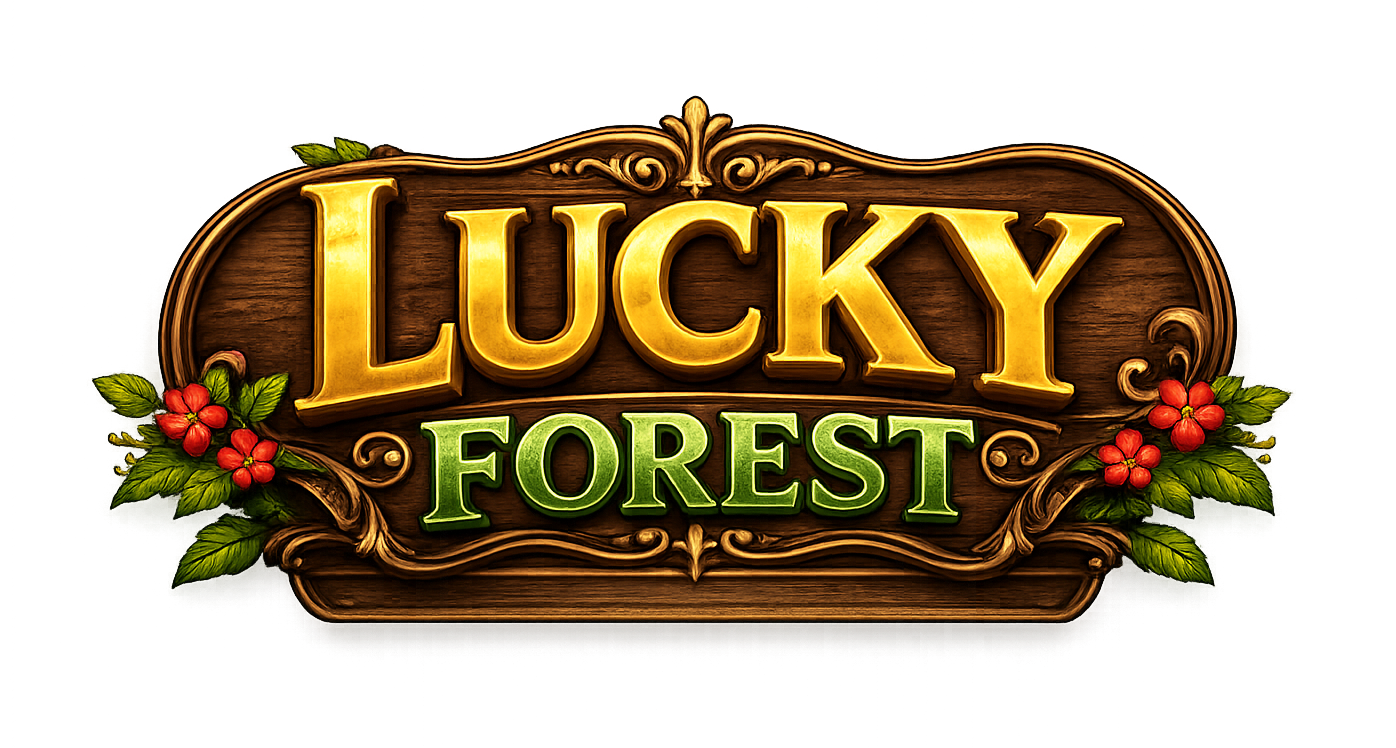
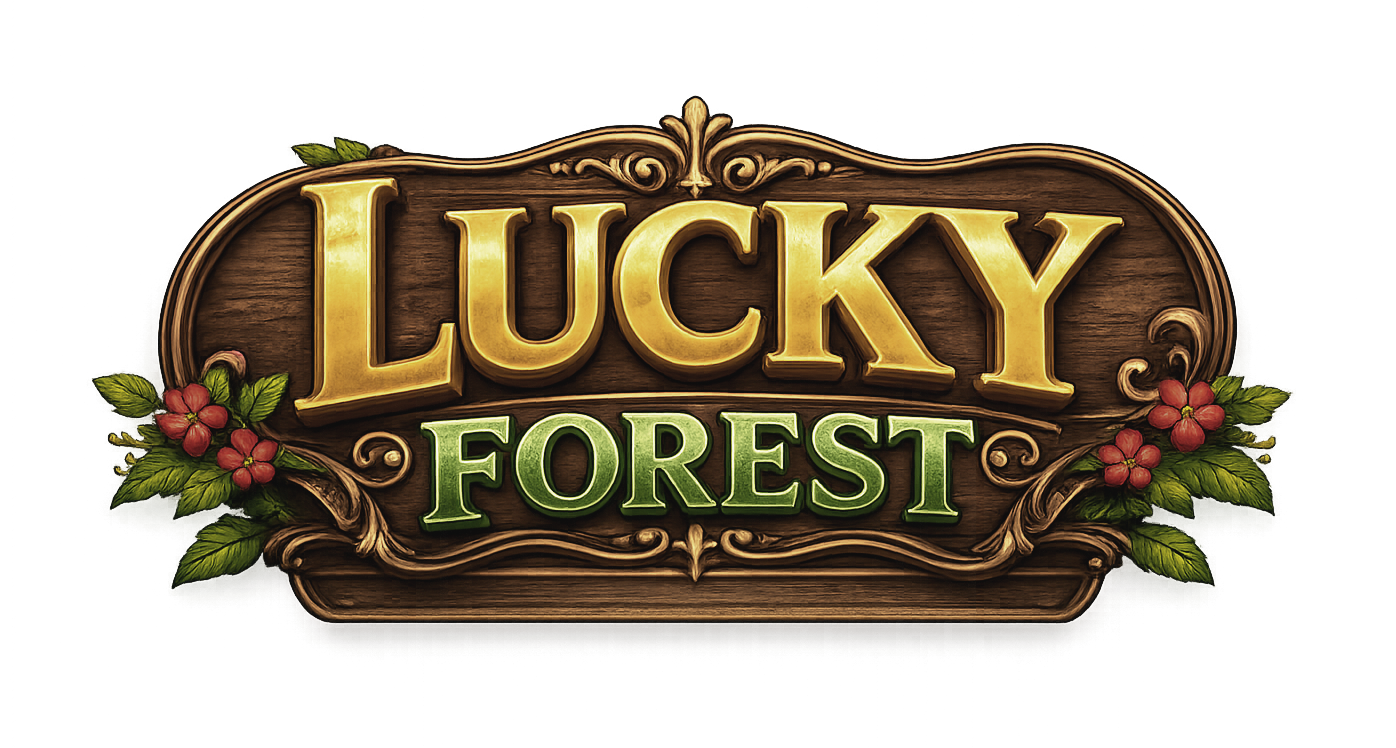
minor visual improvements

Changed region(s): [[0.0616, 0.123, 0.9241, 0.8302]]

diff --git a/src/version.ts b/src/version.ts
@@ -4,7 +4,10 @@ import { BUILD_INFO } from './build-info.generated';
 
 export { BUILD_INFO };
 
-export const formatBuildLabel = (): string => {
+const formatBuildDate = (): string => BUILD_INFO.builtAt.slice(0, 10);
+
+/** Full label for console and BUILD.txt — sha, buildId, dirty mark */
+export const formatBuildLabelFull = (): string => {
 	const dirtyMark = BUILD_INFO.gitDirty ? '*' : '';
 
 	if (BUILD_INFO.mode === 'development') {
@@ -12,11 +15,23 @@ export const formatBuildLabel = (): string => {
 	}
 
 	const head = `v${BUILD_INFO.version} · ${BUILD_INFO.channel} · ${BUILD_INFO.gitSha}${dirtyMark}`;
-	return `${head}\n${BUILD_INFO.buildId}`;
+	return `${head} · ${BUILD_INFO.buildId}`;
+};
+
+/** Short label for HUD — version, channel, build date (no time) */
+export const formatBuildLabel = (): string => {
+	const dirtyMark = BUILD_INFO.gitDirty ? '*' : '';
+	const date = formatBuildDate();
+
+	if (BUILD_INFO.mode === 'development') {
+		return `v${BUILD_INFO.version} dev ${date}${dirtyMark}`;
+	}
+
+	return `v${BUILD_INFO.version} ${BUILD_INFO.channel} ${date}`;
 };
 
 export const logBuildInfo = (): void => {
-	console.info(`[Slot Game] ${formatBuildLabel()} (built ${BUILD_INFO.builtAt})`);
+	console.info(`[Slot Game] ${formatBuildLabelFull()} (built ${BUILD_INFO.builtAt})`);
 };
 
 const VERSION_TEXT_FILL = '#D9B978';

diff --git a/src/index.ts b/src/index.ts
@@ -26,8 +26,6 @@ PixiPlugin.registerPIXI(PIXI);
 const MOCK_TOKEN = 'mock';
 const DEFAULT_MIN_BET = 1;
 const DEFAULT_MAX_BET = 10;
-const COIN_WAVE_DELAY_MS = 100;
-const COIN_WAVE_TAIL_DELAY_MS = 100;
 
 const app = new Application();
 const walletLedger = new MockWalletLedger();
@@ -37,7 +35,7 @@ const gameHUD = new GameHUD();
 const balancePresenter = new BalancePresenter(gameHUD);
 
 const gameLayer = new Container();
-const hudLayer = new Container(); // !! top level UI to be implemented
+const hudLayer = new Container();
 const uiOverlay = new Container();
 const fadeRect = new Graphics();
 uiOverlay.addChild(fadeRect);
@@ -127,7 +125,6 @@ async function loadGameScene(sceneId: string): Promise<void> {
 		gameSceneAssets = '';
 	}
 
-	// ?? the only way?
 	const serverInitPromise = entry.gameId
 		? connectToGameServer(entry.gameId)
 		: Promise.resolve({ connected: false, response: null as IInitResponse | null });
@@ -147,7 +144,7 @@ async function loadGameScene(sceneId: string): Promise<void> {
 
 	const gameScene = createGameScene(entry, serverInit.response);
 
-	await changeScene(gameScene);
+	await changeScene(gameScene, true);
 
 	adjustSceneUi(entry, isServerConnected); // !! to be implemented
 }
@@ -214,7 +211,6 @@ function connectCheat(scene: Scene, serverConnected: boolean): void {
 
 	if (serverConnected) {
 		scene.on('cheatACoin', onCheatTriggered);
-		return;
 	}
 }
 
@@ -223,15 +219,17 @@ function adjustSceneUi(entry: GameSceneCatalogEntry, serverConnected: boolean): 
 	console.info(`adjustSceneUi: "${entry.title}" loaded, server=${serverConnected}`);
 }
 
-async function changeScene(newScene: Scene): Promise<void> {
+async function changeScene(newScene: Scene, showHud: boolean = false): Promise<void> {
 	if (currentScene) {
 		if (currentScene instanceof MainGameScene) {
 			currentScene.off('leverTriggered');
+			currentScene.off('cheatACoin');
 		}
 
 		const promiseFadeIsOn = fadeEffect(500, true);
 		const promiseSceneInit = newScene.init();
 		await Promise.all([promiseFadeIsOn, promiseSceneInit]);
+		hudLayer.visible = showHud;
 
 		gameLayer.removeChild(currentScene);
 		gameLayer.addChild(newScene);

diff --git a/src/managers/scenes-catalog.ts b/src/managers/scenes-catalog.ts
@@ -22,12 +22,9 @@ const createForestScene = (args?: GameSceneCreateArgs): Scene => {
 	if (hasKeys) {
 		return new MainGameScene(symbolKeys);
 	}
-	/*if (hasMatrix) {
-		// should no be like that
-		let keys = symbolMatrix.at(0);
-		const sortedKeys = [...keys].sort();
-		return new MainGameScene(sortedKeys, symbolMatrix);
-	}*/
+	if (hasMatrix) {
+		// Cannot extract symbol keys from the matrix to sequence the textures correctly.
+	}
 	return new MainGameScene();
 };
 

diff --git a/src/build-info.generated.ts b/src/build-info.generated.ts
@@ -14,10 +14,10 @@ export type BuildInfo = {
 
 export const BUILD_INFO: BuildInfo = {
 	"version": "1.1.0",
-	"gitSha": "0c9e7c7",
+	"gitSha": "ff7da32",
 	"gitDirty": true,
 	"mode": "development",
 	"channel": "local",
-	"buildId": "20260710-002605",
-	"builtAt": "2026-07-10T00:26:05.556Z"
+	"buildId": "20260710-065530",
+	"builtAt": "2026-07-10T06:55:30.047Z"
 };

diff --git a/src/game/server/mock-persistence.ts b/src/game/server/mock-persistence.ts
@@ -1,5 +1,5 @@
 import { z } from 'zod';
-import { IPlayer, IWallet, PlayerScheme, WalletScheme } from '../slot-game-interface';
+import { IWallet, PlayerScheme, WalletScheme } from '../slot-game-interface';
 import { accountConfig } from './account-config';
 import { ReelMatrix } from './game-definition';
 

diff --git a/src/scenes/main-game-scene.ts b/src/scenes/main-game-scene.ts
@@ -1,5 +1,4 @@
 import { Sprite, Texture, Container, Assets, Spritesheet, AnimatedSprite, Graphics, ParticleContainer } from 'pixi.js';
-import { gsap } from 'gsap';
 import { Scene } from './scene';
 import { AnotherFly } from '../components/particle-fly';
 import { Coin, CoinThrowOptions } from '../components/coin';
@@ -7,7 +6,6 @@ import { Reel, ReelState } from '../components/reel';
 import { Spine } from '@esotericsoftware/spine-pixi-v8';
 import { SoundManager } from '../managers/sound-manager';
 import { SpineDisplay } from '../components/spine-display';
-import { number } from 'zod';
 
 export class MainGameScene extends Scene {
 	private bgSprite!: Sprite;

diff --git a/src/game/slot-machine-client.ts b/src/game/slot-machine-client.ts
@@ -13,7 +13,6 @@ export class SlotMachineClient {
 
 	public async fetchInit(query: IInitQuery): Promise<IInitResponse> {
 		const response = await this.server.handleInit(query);
-		//console.log(response); // !! debug
 		return InitResponseScheme.parse(response);
 	}
 

diff --git a/README.md b/README.md
@@ -1,15 +1,18 @@
 # Another HTML5 Slot Machine Game Demo
 
-A browser-based slot machine demo built with **Pixi.js v8**, **TypeScript**, **GSAP**, and **Spine** skeletal animations. The project showcases reel spinning mechanics, win/lose feedback, ambient audio, and a scene-based loading flow.
+A browser-based slot machine demo built with **Pixi.js v8**, **TypeScript**, **GSAP**, and **Spine** skeletal animations. The project showcases reel spinning mechanics, server-driven game state, wallet persistence, HUD controls, win/lose feedback, ambient audio, and a scene-based loading flow.
 
 ## Features
 
 - **Three independent reels** with acceleration, deceleration, and a micro-bounce stop animation
-- **Mock server spin results** — symbol outcomes and win detection are simulated asynchronously (no client-side cheat logic on the final design path)
+- **Mock game server** — init/spin API with Zod-validated contracts; symbol outcomes, paytable evaluation, and wallet settlement run server-side (no client-side cheat logic on the final design path)
+- **Wallet persistence** — balance stored in `localStorage` with `lastTransactionIndex` for stale snapshot rejection
+- **HUD** — balance display with animated debit/credit, bet controls (+/−), sound/info buttons, build version label
+- **Scene catalog** — entries map scene id → asset bundle → optional `gameId`; factory passes server `symbolIds` and reel matrix into the scene constructor
 - **Spine animations** — owl character reactions and coin burst particles on win
 - **Layered audio** — separate music, ambience, and SFX buses via `@pixi/sound`; per-reel spin sounds with staggered stop clicks
 - **Scene flow** — preload splash → loading screen with progress bar → main game, with GSAP fade transitions
-- **UI button feedback** — `UIButton` with pluggable `MouseActionDecoration` (sound toggle uses `HighlightDecoration`: hover highlight, press tint, elastic tap)
+- **UI button feedback** — `UIButton` with pluggable decorations (`HighlightDecoration`: hover highlight, press tint, elastic tap)
 - **Input** — pull the lever (click) or press **Space** / **Enter**
 
 ## Tech Stack
@@ -20,6 +23,7 @@ A browser-based slot machine demo built with **Pixi.js v8**, **TypeScript**, **G
 | Language | TypeScript (strict) |
 | Animation | Spine (`@esotericsoftware/spine-pixi-v8`), [GSAP](https://gsap.com/) v3 + PixiPlugin |
 | Audio | `@pixi/sound` |
+| Validation | [Zod](https://zod.dev/) (API contracts) |
 | Bundler | Webpack 5 |
 
 ## Requirements
@@ -65,35 +69,49 @@ docker run --rm -p 8080:80 slot-game-demo
 
 ```
 src/
-├── index.ts                      # App bootstrap, GSAP/PixiPlugin setup, scene switching
-├── assets/                       # Images, sounds, Spine data, asset manifest
+├── index.ts                      # App bootstrap, scene loading, spin flow orchestration
+├── version.ts                      # Build label formatting for HUD and console
+├── assets/                         # Images, sounds, Spine data, asset manifest
 ├── components/
-│   ├── ui-button.ts              # Interactive UI button (Decoratable)
-│   ├── highlight-decoration.ts   # Hover / press / tap GSAP effects
-│   ├── mouse-action-decoration.ts
-│   ├── decoratable.ts
-│   ├── reel.ts, coin.ts, spine-display.ts, particle-fly.ts
+│   ├── reel.ts, coin.ts            # Reel physics and coin particles
+│   ├── ui-button.ts                # Interactive UI button (Decoratable)
+│   ├── highlight-decoration.ts     # Hover / press / tap GSAP effects
+│   └── spine-display.ts            # Spine animation wrapper
 ├── game/
-│   └── slot-machine-model.ts     # Mock spin API
+│   ├── slot-game-interface.ts      # IInitResponse, ISpinResponse, Zod schemas
+│   ├── slot-machine-client.ts      # Client wrapper around mock server
+│   ├── pay-client.ts               # External wallet credit (mock pay service)
+│   └── server/
+│       ├── mock-slot-server.ts     # Init / spin handlers
+│       ├── mock-persistence.ts     # Wallet ledger + session store (localStorage)
+│       ├── game-definition.ts      # GameDefinition interface
+│       └── games/                  # Per-game rules (slot_reels_3x3, …)
+├── hud/
+│   ├── game-hud.ts                 # Balance, bet, sound, version panel
+│   └── balance-presenter.ts        # Wallet display logic (debit / reveal / credit)
 ├── managers/
-│   └── sound-manager.ts          # Audio buses and playback
-└── scenes/                       # Preload, Loading, MainGame scenes
+│   ├── scenes-catalog.ts           # Scene entries and factories
+│   └── sound-manager.ts            # Audio buses and playback
+└── scenes/                         # Preload, Loading, MainGame scenes
 ```
 
 ## How to Play
 
 1. Wait for assets to load.
-2. Click the lever or press **Space** / **Enter** to spin.
-3. Reels stop one by one; a win triggers a coin spray and owl celebration.
-4. Use the sound button (top-left) to toggle audio.
+2. Adjust bet with **+** / **−** (within server `maxBet`).
+3. Click the lever or press **Space** / **Enter** to spin.
+4. Reels stop one by one; a win triggers a coin spray and owl celebration.
+5. Use the sound button (top-left) to toggle audio.
+6. Balance persists across page reloads (mock wallet in `localStorage`).
 
 ## Development Notes
 
 - Assets are loaded through Pixi `Assets` bundles defined in `src/assets/manifest.json`.
 - Webpack aliases `pixi.js` to a single ESM entry point so Spine and the app share one Pixi instance.
-- Reel symbol keys originate from `SlotMachineModel` and are passed through the scene unchanged.
+- **Scene creation:** `loadGameScene` fetches server init, then calls the catalog factory with `symbolIds` (atlas order) and `symbols` (3×3 reel window). The scene applies this state in `addReels()`.
+- **Spin flow:** client debits balance visually → server `fetchSpin` → reels stop on payline keys from `result.symbols` → balance reveal animation.
 - GSAP `PixiPlugin` is registered in `index.ts` for scene fade effects and UI decorations.
-- `Filter.defaultOptions.resolution = 'inherit'` keeps ColorMatrix filters (contrast/brightness) sharp on high-DPI and zoomed pages.
+- `Filter.defaultOptions.resolution = 'inherit'` keeps ColorMatrix filters sharp on high-DPI and zoomed pages.
 - `npm run build` produces an optimized static bundle in `dist/` for deployment or Docker.
 
 ## Versioning & Releases
@@ -102,7 +120,7 @@ The game version lives in `package.json` (`version` field). Each `npm start` / `
 
 | Field | Meaning |
 |---|---|
-| `version` | SemVer from `package.json` (e.g. `1.0.0`) |
+| `version` | SemVer from `package.json` (e.g. `1.1.0`) |
 | `gitSha` | Short commit hash — identifies what is on GitHub |
 | `gitDirty` | `*` suffix if there are uncommitted local changes |
 | `mode` | `development` (local) or `production` (build) |
@@ -111,23 +129,23 @@ The game version lives in `package.json` (`version` field). Each `npm start` / `
 
 **Where to look:**
 
-- **Local dev** (`npm start`) — bottom-left overlay: `v1.0.0 · dev · abc1234*` and the same string in the browser console. `*` means uncommitted changes.
-- **GitHub** — check `package.json` version + `git log -1 --oneline`. Tag releases as `v1.0.0` to match the version field.
-- **itch.io build** — run `npm run build:itch`, then open `dist/BUILD.txt` or the in-game label: `v1.0.0 · itch · abc1234 · 20250701-143022`.
+- **Local dev** (`npm start`) — info panel (bottom bar): `v1.1.0 · dev · abc1234*` and the same string in the browser console. `*` means uncommitted changes.
+- **GitHub** — check `package.json` version + `git log -1 --oneline`. Tag releases as `v1.1.0` to match the version field.
+- **itch.io build** — run `npm run build:itch`, then open `dist/BUILD.txt` or the in-game label: `v1.1.0 itch 2026-07-10` (full details in console and `BUILD.txt`).
 
 ### Before a git commit
 
 1. Make sure the game runs: `npm start`.
 2. Bump version **only** when preparing a release or a public itch.io upload:
    ```bash
-   npm run version:patch   # 1.0.0 → 1.0.1 (bugfix)
-   npm run version:minor   # 1.0.0 → 1.1.0 (new feature)
-   npm run version:major   # 1.0.0 → 2.0.0 (breaking change)
+   npm run version:patch   # 1.1.0 → 1.1.1 (bugfix)
+   npm run version:minor   # 1.1.0 → 1.2.0 (new feature)
+   npm run version:major   # 1.1.0 → 2.0.0 (breaking change)
    ```
 3. Commit code **and** the updated `package.json` / `package-lock.json` together.
 4. For a release, add a git tag after the commit:
    ```bash
-   git tag v1.0.1
+   git tag v1.1.1
    ```
 
 Regular WIP commits do **not** require a version bump.
@@ -137,9 +155,9 @@ Regular WIP commits do **not** require a version bump.
 1. Commit (or stash) all changes — a dirty working tree shows `*` in the dev label and is harder to trace.
 2. If this push is a **release**, ensure the version was bumped and the tag exists:
    ```bash
-   git tag v1.0.1        # if not created yet
+   git tag v1.1.1        # if not created yet
    git push origin main
-   git push origin v1.0.1
+   git push origin v1.1.1
    ```
 3. For everyday pushes, just `git push` — no version bump needed.
 
@@ -151,22 +169,22 @@ Regular WIP commits do **not** require a version bump.
    ```bash
    npm run build:itch
    ```
-4. Verify `dist/BUILD.txt` — version, git hash, and build ID should look correct.
-5. Open `dist/index.html` locally (or use `npx serve dist`) and check the version label in the bottom-left corner.
+4. Verify `dist/BUILD.txt` — version, git hash, and build ID should look correct (no `*` = clean git).
+5. Open `dist/index.html` locally (`npx serve dist`) and smoke-test: spin, balance, reload persistence, version label.
 6. Upload the **entire** `dist/` folder to itch.io (HTML project).
 7. Tag the release on GitHub if you bumped the version:
    ```bash
-   git tag v1.0.1
-   git push origin v1.0.1
+   git tag v1.1.1
+   git push origin v1.1.1
    ```
 
 ## Roadmap (planned)
 
 - Responsive layout (`resize` wiring, browser zoom / DPR sync)
-- `src/config.ts` for shared constants
-- HUD layer
-- Balance / bet system
-
+- `IGameSceneCapabilities` — decouple `index.ts` from `MainGameScene` (`instanceof` stubs today)
+- Server error UX — emergency reel stop animation when spin/init fails
+- Additional catalog entries (1×3 thimbles, other reel layouts)
+- Real backend integration (replace mock server / pay client)
 
 ## Third-Party Assets & Credits
 